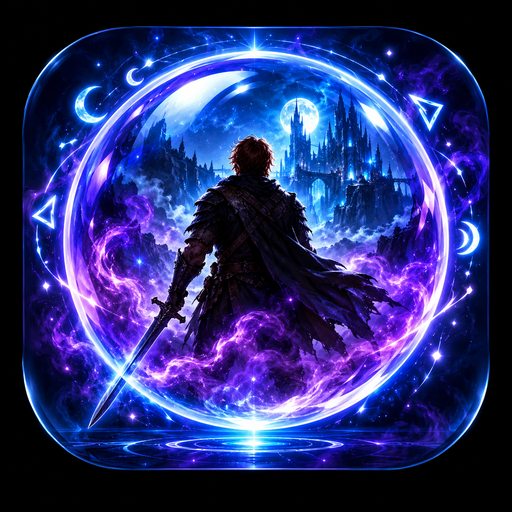
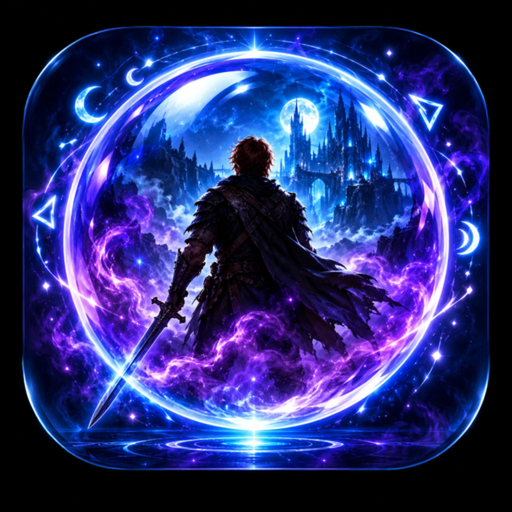
Add files via upload

diff --git a/index.html b/index.html
@@ -3,8 +3,8 @@
 <head>
 <meta charset="utf-8">
 <meta name="viewport" content="width=device-width,initial-scale=1,viewport-fit=cover">
-<meta name="theme-color" content="#0b0b0d"><meta name="mobile-web-app-capable" content="yes"><meta name="apple-mobile-web-app-capable" content="yes"><meta name="apple-mobile-web-app-title" content="Dark Fantasy RPG">
-<title>Dark Fantasy RPG</title>
+<meta name="theme-color" content="#0b0b0d"><meta name="mobile-web-app-capable" content="yes"><meta name="apple-mobile-web-app-capable" content="yes"><meta name="apple-mobile-web-app-title" content="Shane RPG">
+<title>Shane's Dark Fantasy RPG v3.7</title>
 <style>
 :root{--bg:#080f1a;--panel:rgba(13,31,53,.80);--panel2:rgba(18,42,70,.80);--text:#fff;--muted:#aebdce;--line:#2d4664;--accent:#8b5cf6}
 *{box-sizing:border-box}body{margin:0;background:var(--bg);color:var(--text);font-family:system-ui,-apple-system,Segoe UI,sans-serif}
@@ -334,7 +334,7 @@ function render(){
     return `<div class="entry${actionClass}"><img class="entry-avatar" src="${avatar}" alt=""><div class="entry-body"><div class="speaker ${cls}">${esc(speaker)}</div>${text}</div></div>`;
   }).join('');
 }
-function openSceneImage(src){const w=window.open('', '_blank'); if(!w)return; w.document.write(`<title>Dark Fantasy RPG</title><style>html,body{margin:0;background:#080b12;height:100%;display:grid;place-items:center}img{max-width:100%;max-height:100%;object-fit:contain}</style><img src="${src}">`); w.document.close();}
+function openSceneImage(src){const w=window.open('', '_blank'); if(!w)return; w.document.write(`<title>Shane's Dark Fantasy RPG v3.7</title><style>html,body{margin:0;background:#080b12;height:100%;display:grid;place-items:center}img{max-width:100%;max-height:100%;object-fit:contain}</style><img src="${src}">`); w.document.close();}
 function renderRichText(raw){
   const parts=String(raw).split(/\*([^*]+)\*/g);
   let html='<p>';
